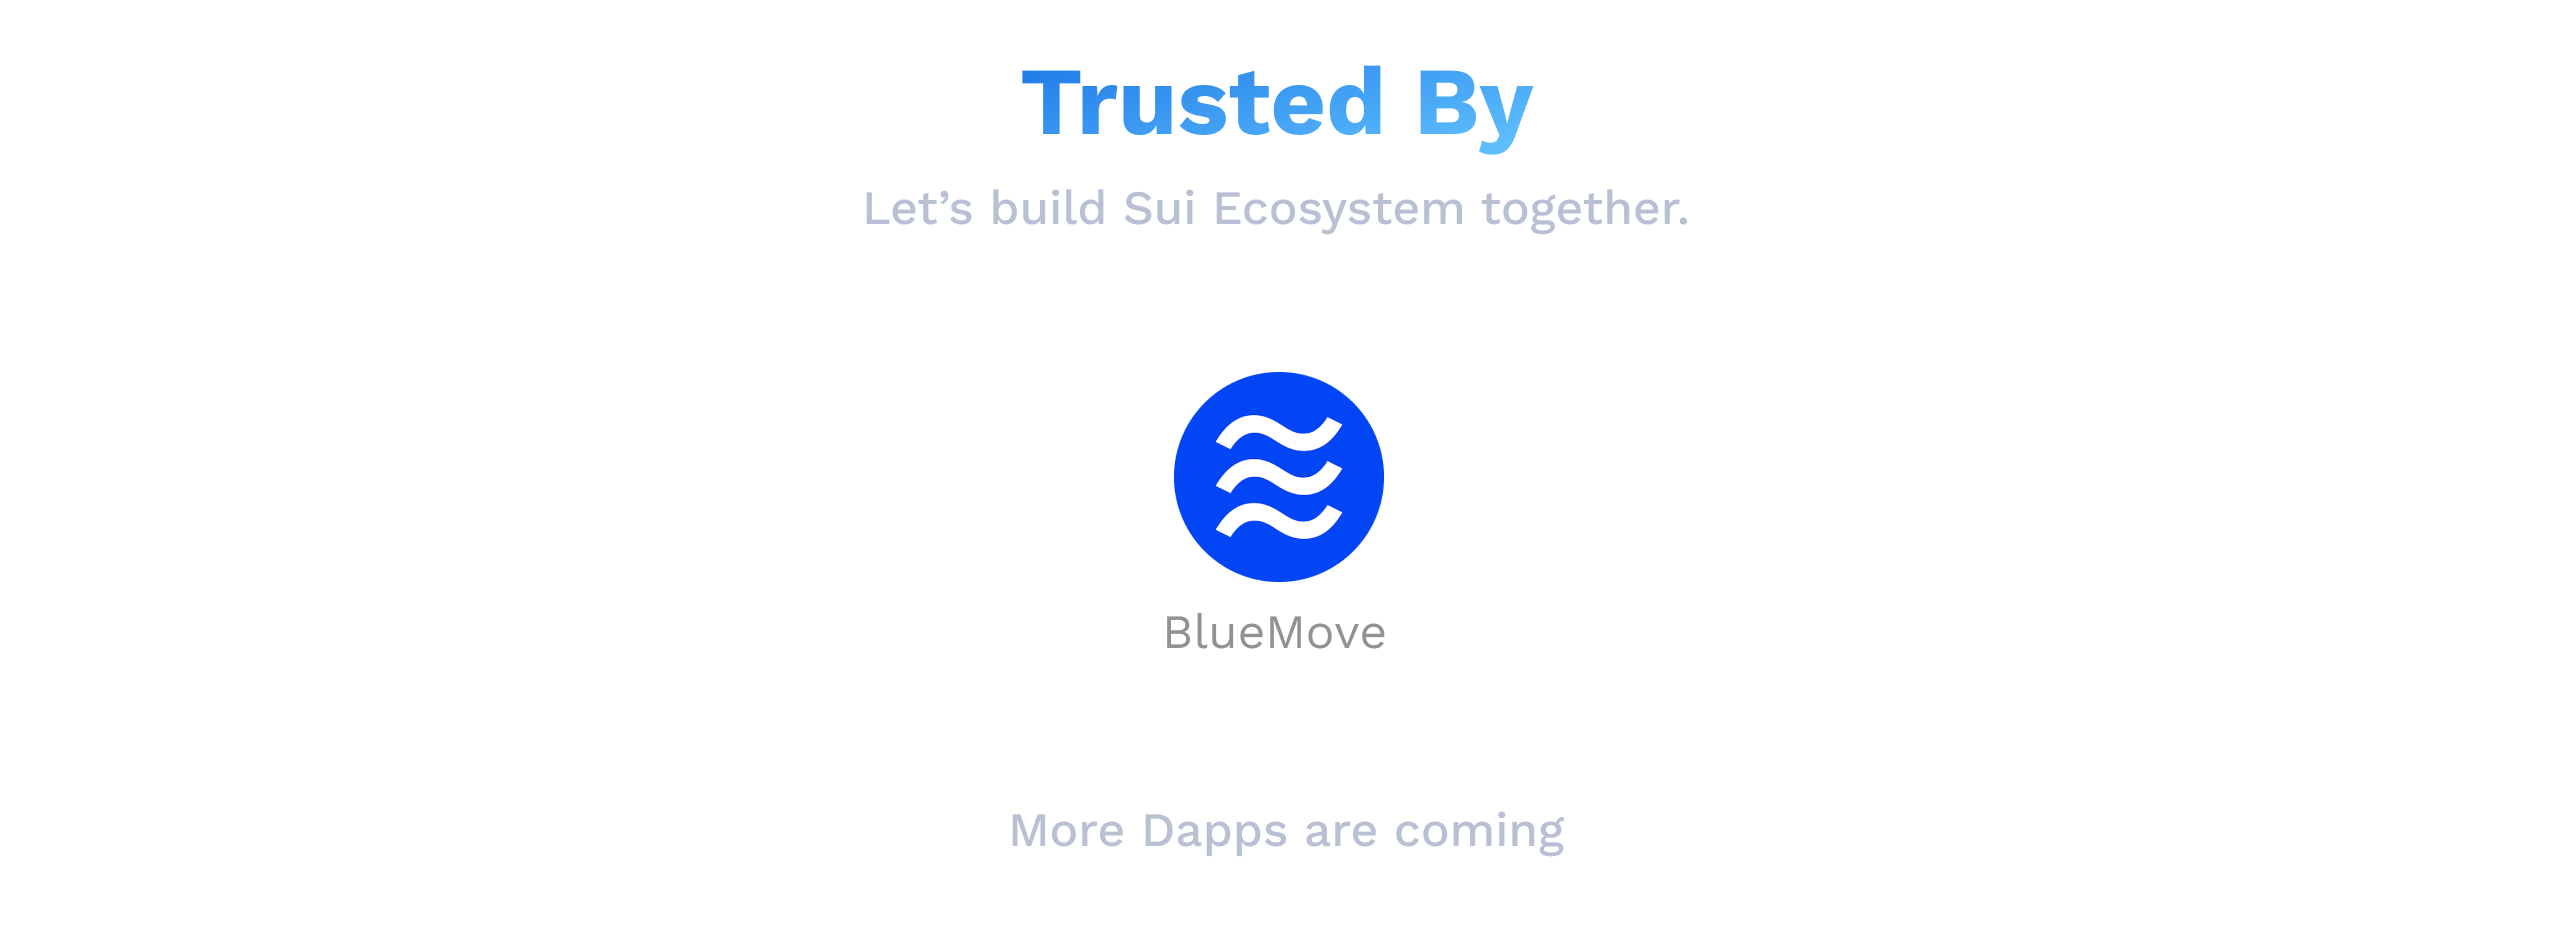
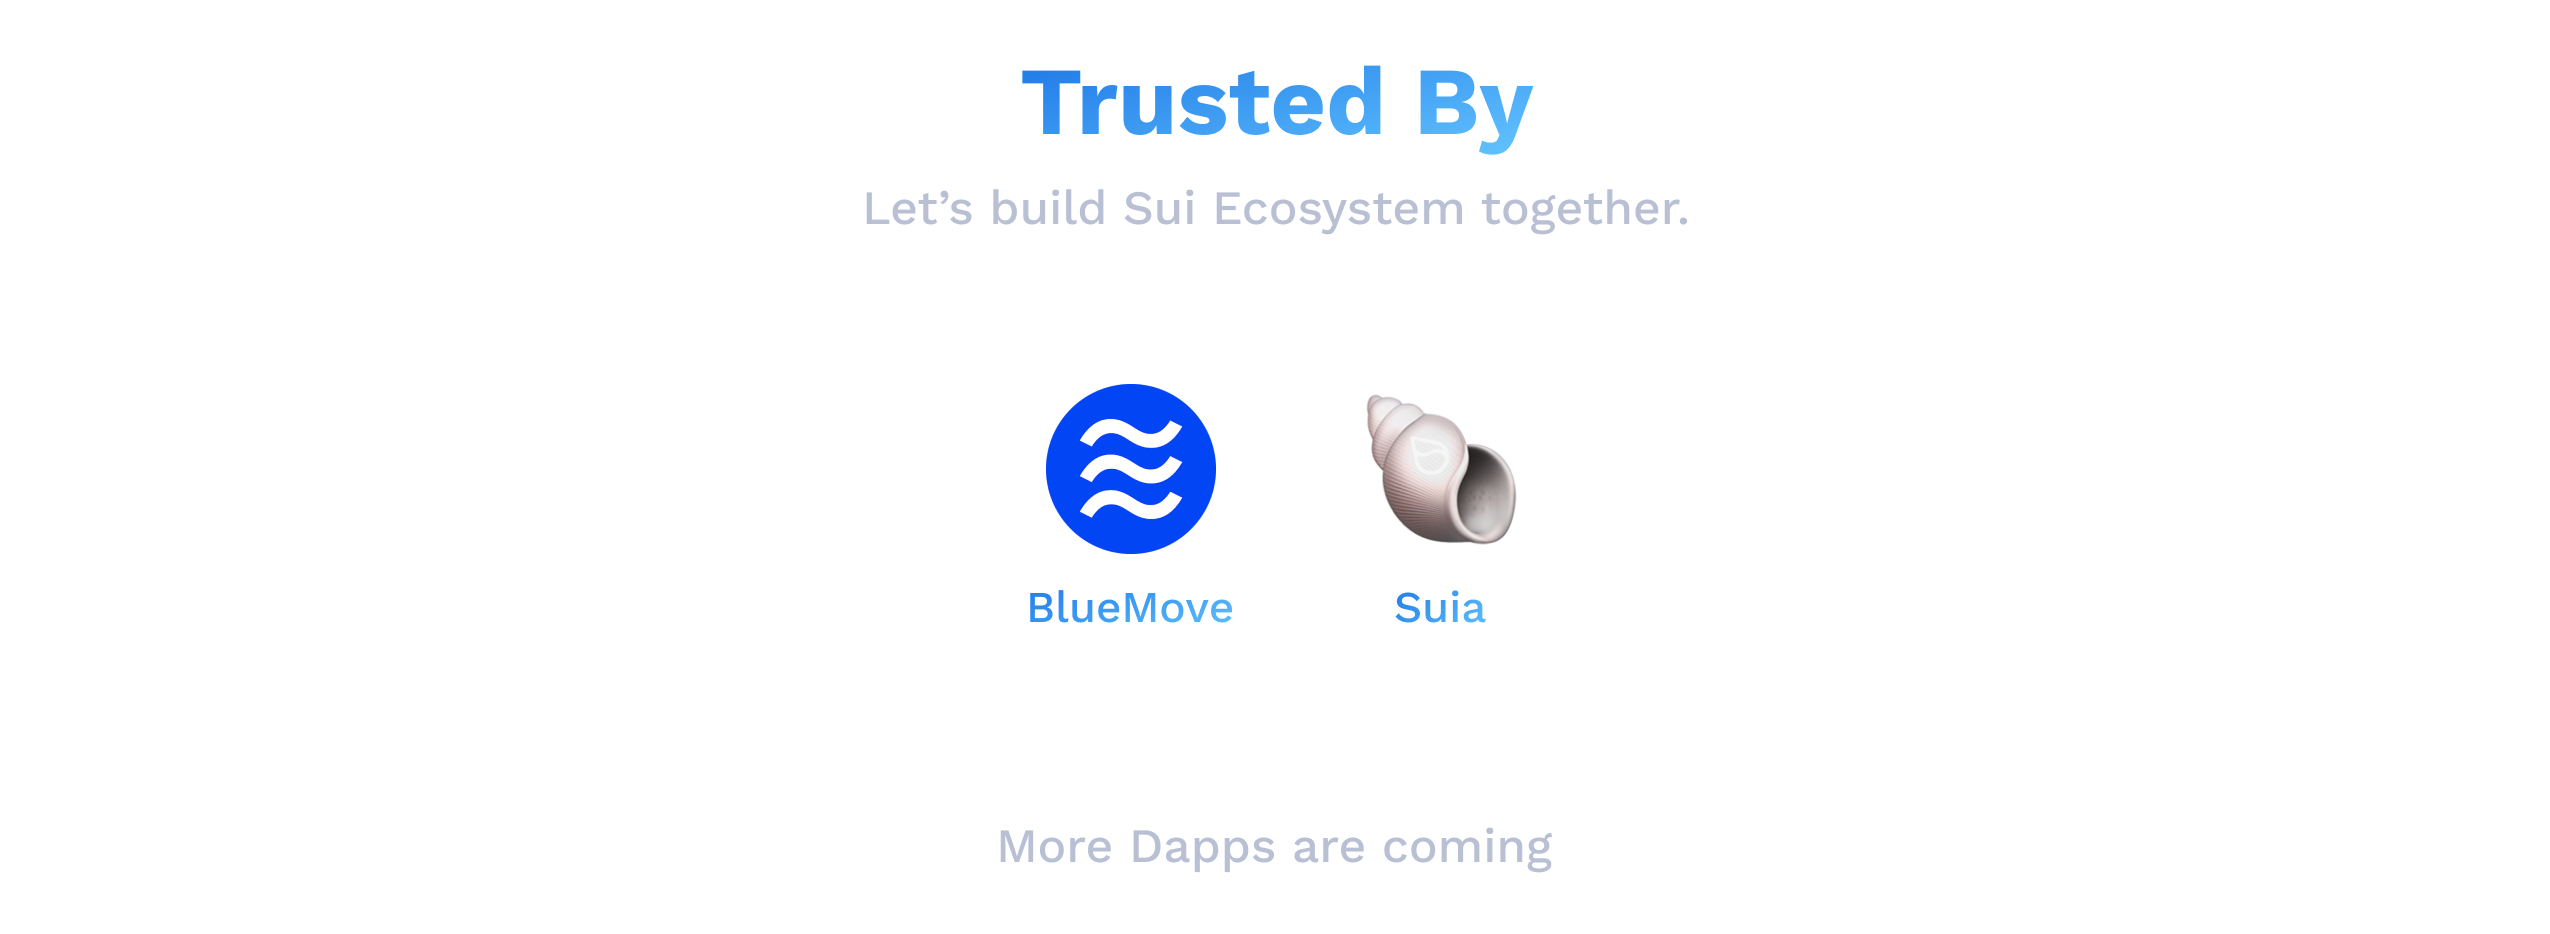
docs: update trustedby

Changed region(s): [[0.4027, 0.4036, 0.6196, 0.7141], [0.3718, 0.8694, 0.6196, 0.9315]]

diff --git a/website/docs/QuickStart.md b/website/docs/QuickStart.md
@@ -89,3 +89,11 @@ Feel free to play with our [Create-React-App Demo](https://wallet-kit-demo.verce
 > Github repo: https://github.com/suiet/wallet-kit/tree/main/examples/with-cra
 
 <img src="/img/integration-example.png" />
+
+
+## 🤝 Trusted by great Sui projects
+
+- [BlueMove NFT](https://sui.bluemove.net/)
+- [Suia POAP](https://suia.io/)
+
+<img src="/img/trustedby.png" />
